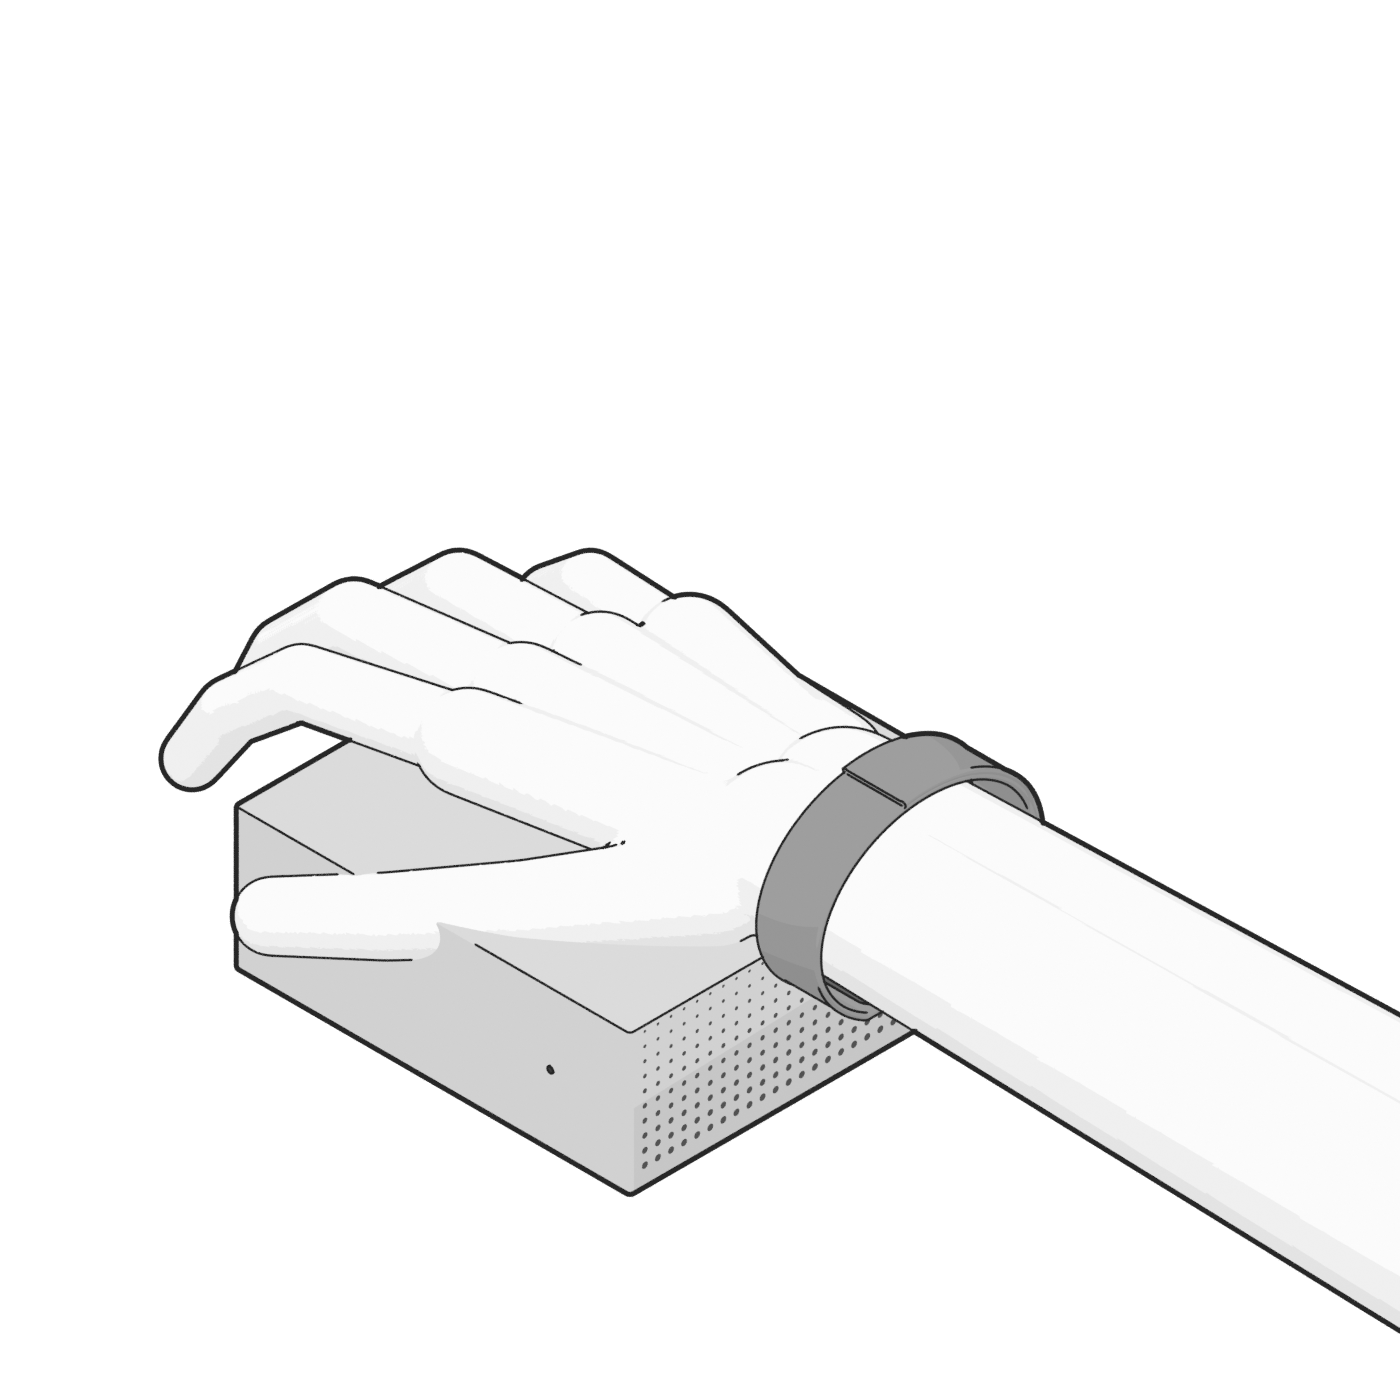
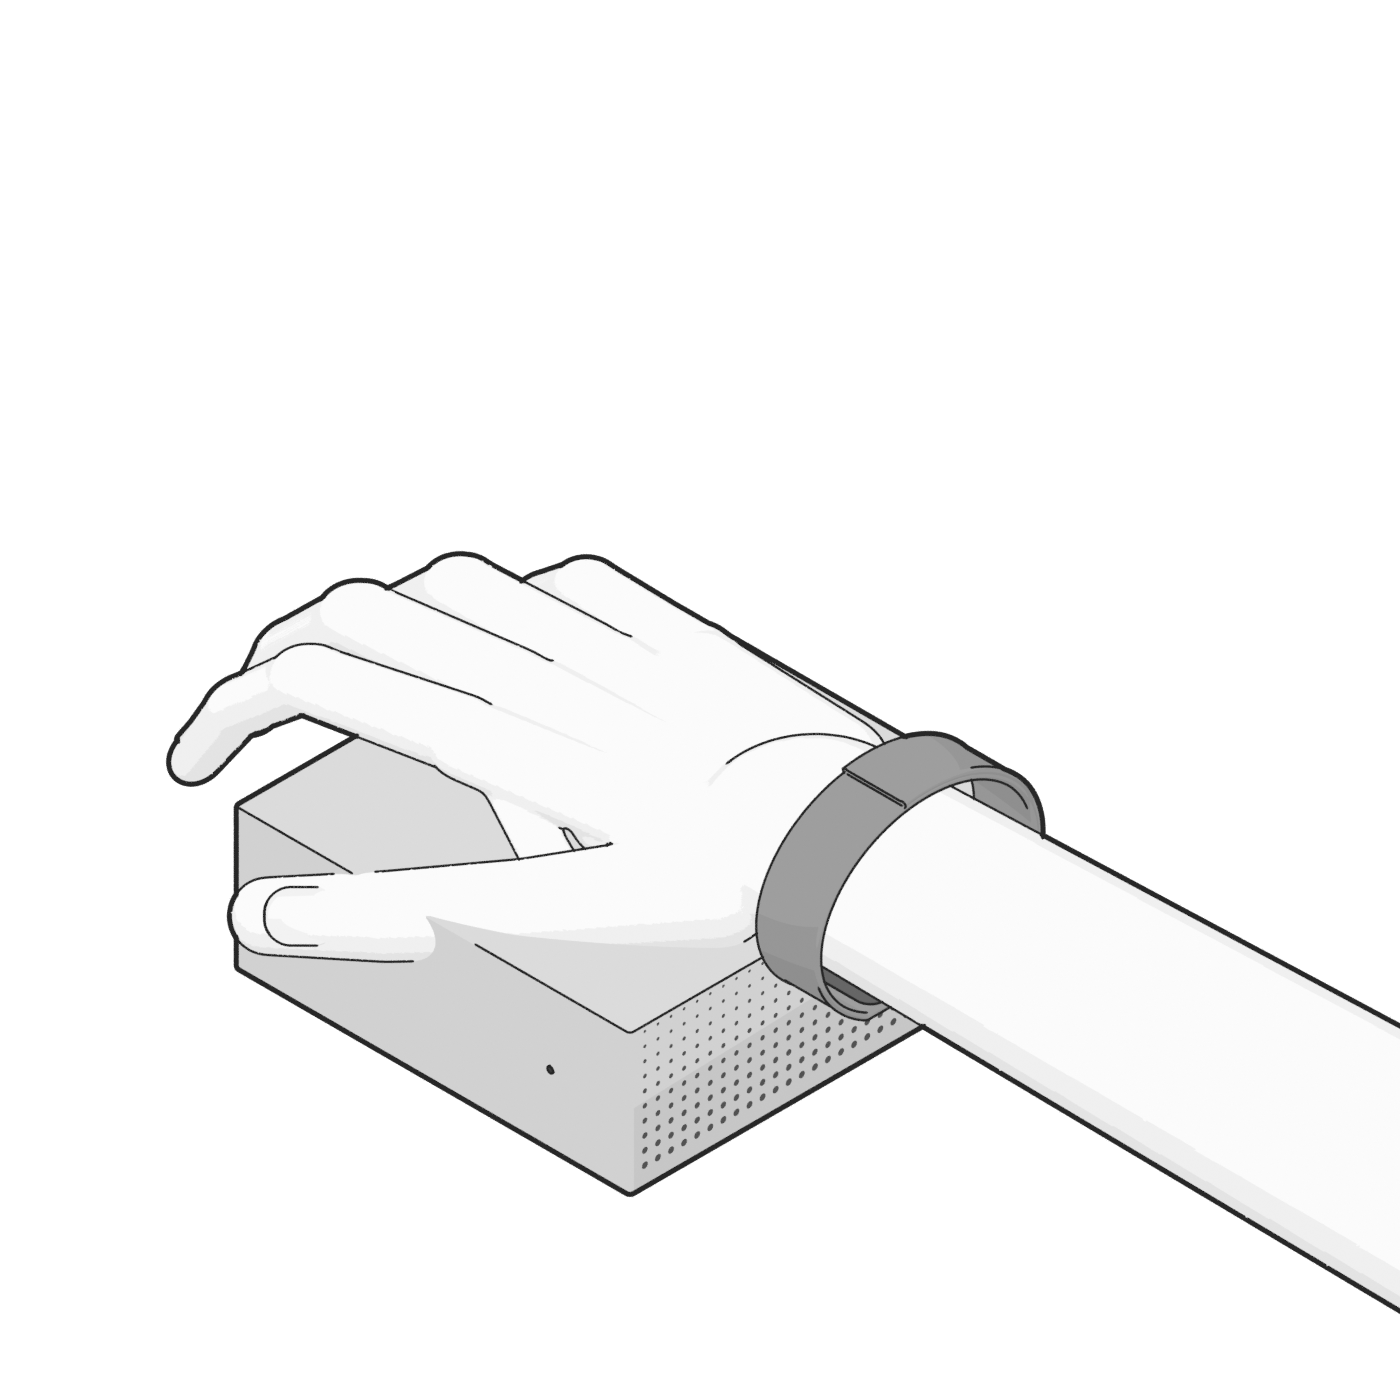
Deck: AuraWake gesture hand redrawn closer to an instruction-manual hand

diff --git a/deck/blender/aura.py b/deck/blender/aura.py
@@ -344,7 +344,7 @@ if MODE == 'real':
 else:
     T = {'alu': 0.86, 'grille': 0.42, 'rubber': 0.3, 'print': 0.4, 'pin': 0.75, 'band': 0.5, 'cable': 0.25, 'dots': 0.28,
          'led_front': 0.25, 'phone': 0.88, 'screen': 0.30, 'ui': 0.92, 'card': 0.5, 'metal': 0.74, 'glass': 0.98,
-         'frame': 0.96, 'fabric': 0.5, 'loop': 0.62, 'steel': 0.3, 'lens': 0.1, 'modalu': 0.4, 'slat': 0.80, 'pane': 0.90, 'cap': 0.70, 'plug': 0.3, 'mark': 0.45, 'skin': 0.985}
+         'frame': 0.96, 'fabric': 0.5, 'loop': 0.62, 'steel': 0.3, 'lens': 0.1, 'modalu': 0.4, 'slat': 0.80, 'pane': 0.90, 'cap': 0.70, 'plug': 0.3, 'mark': 0.45, 'skin': 0.985, 'nail': 0.95}
     MATS = {k: toon(k, grey(v)) for k, v in T.items()}
     MATS['body'] = body_toon('body', grey(0.86))
     MATS['shell'] = toon('shell', grey(0.86))
@@ -861,13 +861,14 @@ def build_diffuser():
 # A mannequin hand for the gesture drawings (owner, 2026-10-29: "mano a linea"): capsules for bones, fused by a voxel
 # remesh and smoothed, so the drawing shows only its outline, like an instruction manual. Local frame: X along the
 # fingers, Y towards the thumb, Z the back of the hand; the wrist is at the origin, the forearm runs to -X.
-FINGERS = {   # knuckle (x, y), spread (deg), phalanx lengths, radii
-    'index': ((0.093, 0.028), 7, (0.042, 0.025, 0.020), (0.0090, 0.0083, 0.0076)),
-    'middle': ((0.097, 0.008), 1, (0.046, 0.028, 0.021), (0.0093, 0.0086, 0.0078)),
-    'ring': ((0.093, -0.012), -5, (0.043, 0.027, 0.020), (0.0088, 0.0081, 0.0074)),
-    'little': ((0.084, -0.030), -12, (0.034, 0.021, 0.018), (0.0078, 0.0072, 0.0066)),
+FINGERS = {   # knuckle (x, y), spread (deg), phalanx lengths, half-widths at knuckle, joints and tip
+    'index': ((0.093, 0.027), 6, (0.042, 0.025, 0.021), (0.0098, 0.0088, 0.0080, 0.0068)),
+    'middle': ((0.097, 0.007), 1, (0.046, 0.028, 0.022), (0.0100, 0.0091, 0.0082, 0.0070)),
+    'ring': ((0.093, -0.012), -5, (0.043, 0.027, 0.021), (0.0094, 0.0085, 0.0077, 0.0066)),
+    'little': ((0.084, -0.029), -11, (0.034, 0.021, 0.019), (0.0083, 0.0075, 0.0069, 0.0059)),
 }
-THUMB = ((0.018, 0.024, -0.006), (0.042, 0.032, 0.027), (0.0125, 0.0105, 0.0095))
+THUMB = ((0.018, 0.024, -0.006), (0.042, 0.032, 0.028), (0.0130, 0.0108, 0.0098, 0.0084))
+FLAT_F = 0.8                     # fingers are wider than they are thick
 POSES = {
     'flat': {'index': (2, 6, 4), 'middle': (1, 6, 4), 'ring': (2, 6, 4), 'little': (4, 8, 5),
              'thumb': [(38, 12), (30, 14), (24, 14)]},
@@ -880,40 +881,61 @@ def dirv(yaw, pitch):
     return Vector((math.cos(a) * math.cos(b), math.sin(a) * math.cos(b), -math.sin(b)))
 
 def hand_bones(pose):
-    P = POSES[pose] if isinstance(pose, str) else pose; bones = []; tips = {}
+    """Bones as (p0, p1, r0, r1, up, f): an elliptic capsule, half-width r, half-thickness r·f along up (the nail side).
+    Nails as (centre, along, up, length, width) on the distal phalanges."""
+    P = POSES[pose] if isinstance(pose, str) else pose; bones = []; tips = {}; nails = []
+    Z = Vector((0, 0, 1))
     for k, ((kx, ky), sp, ls, rs) in FINGERS.items():
         knuckle = Vector((kx, ky, -0.001))
-        bones.append((Vector((0.015, ky * 0.5, 0)), knuckle - Vector((0.004, 0, 0)), 0.0125 if k != 'little' else 0.0112, 0.0118))
-        p, pitch, r = knuckle, 0.0, rs + (rs[2] * 0.9,)
+        bones.append((Vector((0.012, ky * 0.55, -0.001)), knuckle - Vector((0.006, 0, 0)), rs[0] * 1.25, rs[0] * 1.15, Z, 0.62))
+        p, pitch = knuckle, 0.0
         for i, (L, fl) in enumerate(zip(ls, P[k])):
-            pitch += fl; q = p + dirv(sp, pitch) * L; bones.append((p, q, r[i], r[i + 1])); p = q
+            pitch += fl; d = dirv(sp, pitch); q = p + d * L
+            up = dirv(sp, pitch - 90)
+            bones.append((p, q, rs[i], rs[i + 1], up, FLAT_F))
+            if i == 2: nails.append((p + d * (L * 0.6), d, up, L * 0.62, rs[2] + 0.6 * (rs[3] - rs[2]), FLAT_F))
+            p = q
         tips[k] = p
-    p, ls, rs = Vector(THUMB[0]), THUMB[1], THUMB[2] + (THUMB[2][2] * 0.9,)
+    p, ls, rs = Vector(THUMB[0]), THUMB[1], THUMB[2]
     for i, (L, (yaw, pitch)) in enumerate(zip(ls, P['thumb'])):
-        q = p + dirv(yaw, pitch) * L; bones.append((p, q, rs[i], rs[i + 1])); p = q
+        d = dirv(yaw, pitch); q = p + d * L
+        hint = Vector((-0.35, 0.75, 0.55)); up = (hint - d * d.dot(hint)).normalized()   # the thumb nail faces outwards
+        bones.append((p, q, rs[i], rs[i + 1], up, 0.86))
+        if i == 2: nails.append((p + d * (L * 0.6), d, up, L * 0.6, rs[2] + 0.6 * (rs[3] - rs[2]), 0.86))
+        p = q
     tips['thumb'] = p
-    bones += [(Vector((0.03, 0.016, -0.002)), Vector((0.05, 0.02, -0.002)), 0.0135, 0.0115),     # thenar
-              (Vector((0.03, -0.022, -0.003)), Vector((0.07, -0.026, -0.002)), 0.013, 0.011)]   # hypothenar
-    for y in (-0.011, 0.011):
-        bones.append((Vector((0.012, y * 0.8, 0)), Vector((-0.26, y * 1.1, 0)), 0.019, 0.023))  # wrist, forearm
-    return bones, tips
+    th1 = Vector(THUMB[0]) + dirv(*P['thumb'][0]) * THUMB[1][0] * 0.75
+    bones += [(Vector((0.028, 0.014, -0.004)), Vector((0.05, 0.02, -0.004)), 0.014, 0.012, Z, 0.85),          # thenar
+              (Vector((0.03, -0.022, -0.003)), Vector((0.072, -0.026, -0.002)), 0.0135, 0.011, Z, 0.8),      # hypothenar
+              (th1, Vector((0.084, 0.026, -0.003)), 0.0065, 0.0055, Z, 0.55),                               # web to the index
+              (Vector((0.012, 0, -0.001)), Vector((-0.26, 0, 0.002)), 0.027, 0.033, Z, 0.7)]                 # wrist, forearm
+    return bones, tips, nails
 
 def build_hand(pose, R, t, name='hand'):
     """R: 3×3 world basis of the hand (columns = local X, Y, Z); t: world position of the wrist."""
-    bones, tips = hand_bones(pose)
+    bones, tips, nails = hand_bones(pose)
     bm = bmesh.new()
-    for p0, p1, r0, r1 in bones:
-        d = p1 - p0; L = d.length
-        rot = d.normalized().to_track_quat('Z', 'Y').to_matrix().to_4x4()
-        bmesh.ops.create_cone(bm, cap_ends=True, segments=32, radius1=r0, radius2=r1, depth=L, matrix=Matrix.Translation((p0 + p1) / 2) @ rot)
+    for p0, p1, r0, r1, up, f in bones:
+        d = (p1 - p0); L = d.length; d = d / L
+        u = (up - d * d.dot(up)).normalized(); x = u.cross(d)
+        B = Matrix((x, u * f, d)).transposed().to_4x4()          # columns: side, up (flattened), along
+        bmesh.ops.create_cone(bm, cap_ends=True, segments=40, radius1=r0, radius2=r1, depth=L, matrix=Matrix.Translation((p0 + p1) / 2) @ B)
         for c, r in ((p0, r0), (p1, r1)):
-            bmesh.ops.create_uvsphere(bm, u_segments=32, v_segments=16, radius=r, matrix=Matrix.Translation(c))
+            bmesh.ops.create_uvsphere(bm, u_segments=40, v_segments=20, radius=r, matrix=Matrix.Translation(c) @ B)
     ob = link(name, bm, 'skin', smooth=False)
-    ob.matrix_world = Matrix.Translation(t) @ R.to_4x4()
-    rm = ob.modifiers.new('fuse', 'REMESH'); rm.mode = 'VOXEL'; rm.voxel_size = 0.0007
-    sm = ob.modifiers.new('soft', 'SMOOTH'); sm.factor = 0.8; sm.iterations = 12
+    W = Matrix.Translation(t) @ R.to_4x4(); ob.matrix_world = W
+    rm = ob.modifiers.new('fuse', 'REMESH'); rm.mode = 'VOXEL'; rm.voxel_size = 0.0005
+    sm = ob.modifiers.new('soft', 'SMOOTH'); sm.factor = 0.9; sm.iterations = 22
     ob.data.polygons.foreach_set('use_smooth', [True] * len(ob.data.polygons))
-    return ob, {k: Matrix.Translation(t) @ R.to_4x4() @ v for k, v in tips.items()}
+    obs = [ob]
+    for i, (c, d, up, L, r, f) in enumerate(nails):          # nails: thin plates bent to the fingertip's curve
+        u = (up - d * d.dot(up)).normalized(); x = u.cross(d); w = r * 1.4
+        nb = rbox_bm(w, L, 0.0006, min(w, L) * 0.42, 0.0002, sp=8, se=2)
+        for v in nb.verts: v.co.z -= v.co.x ** 2 / (2 * r / f)
+        nb.transform(Matrix((x, d, u)).transposed().to_4x4())
+        nb.transform(Matrix.Translation(c + u * (r * f - 0.00055)))
+        nob = link(f'{name}_nail{i}', nb, 'nail'); nob.matrix_world = W; obs.append(nob)
+    return obs, {k: W @ v for k, v in tips.items()}
 
 def basis(x, y):
     x = Vector(x).normalized(); y = (Vector(y) - x * x.dot(Vector(y))).normalized(); z = x.cross(y)
@@ -921,7 +943,7 @@ def basis(x, y):
 
 def pinch_hand(target, R):
     """Hand placed so that the pad between thumb and index tip lands on target."""
-    _, tips = hand_bones('pinch')
+    _, tips, _ = hand_bones('pinch')
     m = (tips['index'] + tips['thumb']) / 2
     return build_hand('pinch', R, Vector(target) - R @ m)
 
@@ -936,11 +958,11 @@ def build_gesture(n):
         hand, tips = build_hand(POSES['flat'] | {'index': (6, 34, 18), 'middle': (5, 38, 20), 'ring': (6, 36, 18), 'little': (8, 30, 14)}, R, wrist)
         br = build_bracelet(); br.rotation_euler = (0, math.pi / 2, 0)          # ring round the wrist, the pod underneath
         br.location = wrist + Vector((0.002, 0, 0))
-        return group('gesture', [base, br, hand])
+        return group('gesture', [base, br] + hand)
     z0 = TOP + (0.042 if n == 1 else 0.010)
     br = build_bracelet(z0)
     hand, tips = pinch_hand((GRIP[0], GRIP[1], z0 + STRAP_LIFT + STRAP_H - 0.004), PINCH_R)
-    return group('gesture', [base, br, hand])
+    return group('gesture', [base, br] + hand)
 
 # ---------------------------------------------------------------------------------------------------------------
 def cycles(samples, res):

diff --git a/HANDOFF.md b/HANDOFF.md
@@ -1065,6 +1065,10 @@ When a CLOUD session hits something that needs the local environment, it must:
   Slide: three hairline boxes (viewBox cropped 0 40 560 480), one coloured detail each from §4.2, drawn in SVG under
   the PNG as a blurred floor glow (violet breath, amber pulse, warm white half = charging fills from the left),
   arrows up/down beside the bracelet. Headline "Three gestures replace the menus." PDF now 26 pages.
+- **2026-10-29 · LOCAL (48)** · Gesture hand made more realistic, instruction-manual style (owner): bones are now
+  elliptic capsules (fingers wider than thick, f 0.8; metacarpals flatter), tapered per joint, a thumb–index web,
+  thenar/hypothenar pads, a single oval wrist/forearm, finer remesh (0.5 mm) and stronger smoothing; nails as thin
+  plates bent to the fingertip's curve (`nail` tone 0.95). Same poses and framing, so the slide overlays are unchanged.
 - **2026-10-28 · LOCAL (33)** · LED renders: 3/4 close view of the front corner (the alarm reads), saturated state colours
   (`LED_SAT`: white #fff6ea, night #5f6dff, dawn #ffa938) at LOW emission (1.4; 6 for white) so AgX keeps the hue, plus
   a post glow tinted with the state colour: `node deck/blender/glow.mjs <in.png> <out.jpg> 8 '#5f6dff'` (only the LED's
